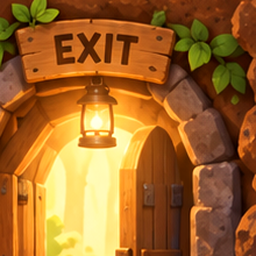
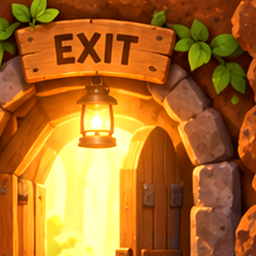
Add files via upload

diff --git a/index.html b/index.html
@@ -4,7 +4,7 @@
 <meta charset="utf-8" />
 <meta name="viewport" content="width=device-width, initial-scale=1, maximum-scale=1, user-scalable=no, viewport-fit=cover" />
 <meta name="theme-color" content="#24130d" />
-<title>Mole Quest — v5.6.3 Recovery Fix</title>
+<title>Mole Quest — v6.0 Clean Warm Mine</title>
 <style>
   :root{
     --cream:#efe4d3;
@@ -26,10 +26,10 @@
     font-family:Inter,system-ui,-apple-system,BlinkMacSystemFont,"Segoe UI",sans-serif;
     color:var(--cream);
     background:
-      radial-gradient(circle at 50% -10%, #473322 0%, rgba(71,51,34,.0) 35%),
-      radial-gradient(circle at 18% 28%, rgba(80,120,180,.12) 0%, rgba(80,120,180,0) 22%),
-      radial-gradient(circle at 82% 18%, rgba(80,120,180,.10) 0%, rgba(80,120,180,0) 20%),
-      linear-gradient(180deg,#120f11,#070608 72%);
+      radial-gradient(circle at 12% 15%, rgba(255,179,81,.24) 0 4%, rgba(255,179,81,.07) 9%, transparent 18%),
+      radial-gradient(circle at 88% 23%, rgba(255,185,88,.20) 0 3%, rgba(255,185,88,.06) 8%, transparent 17%),
+      radial-gradient(circle at 50% -8%, #6a4228 0%, #3b261b 28%, rgba(59,38,27,0) 55%),
+      linear-gradient(180deg,#261a15,#100d0d 68%,#080708);
     display:flex;justify-content:center;
   }
   .app{
@@ -87,43 +87,44 @@
     box-shadow:inset 0 0 0 1px rgba(255,230,200,.08), 0 18px 42px rgba(0,0,0,.45);
   }
   #board{
-    display:grid;grid-template-columns:repeat(10,1fr);gap:1px;aspect-ratio:10/14;
+    display:grid;grid-template-columns:repeat(10,1fr);gap:2px;aspect-ratio:10/14;
     overflow:hidden;border-radius:16px;
-    background:#0f0c0d;touch-action:none;position:relative;
+    background:#3b271b;touch-action:none;position:relative;
+    box-shadow:inset 0 0 0 1px rgba(255,221,171,.08);
   }
-  .cell{position:relative;overflow:hidden;background:#1c110c center/cover no-repeat}
+  .cell{position:relative;overflow:hidden;background:#2b1c14 center/cover no-repeat;border-radius:3px}
   .cell::after{content:"";position:absolute;inset:0;box-shadow:inset 0 0 0 1px rgba(0,0,0,.18);pointer-events:none}
-  .wall{background-image:url('wall-tile.png');filter:brightness(.98) saturate(.92)}
-  .dirt{background-image:url('dirt-tile.png');filter:saturate(1.05) brightness(1.03)}
-  .fragile{background-image:url('dirt-tile.png');filter:saturate(1.08) brightness(1.06);box-shadow:inset 0 0 0 3px rgba(255,213,137,.28),0 0 12px rgba(255,193,99,.14)}
+  .wall{background-image:url('wall-tile.png');filter:brightness(.75) saturate(.78)}
+  .dirt{background-image:url('dirt-tile.png');filter:saturate(.88) brightness(.90)}
+  .fragile{background-image:url('dirt-tile.png');filter:saturate(.85) brightness(.92);box-shadow:inset 0 0 0 2px rgba(236,182,106,.18),0 0 10px rgba(255,187,90,.08)}
   .fragile::before{content:"";position:absolute;z-index:2;inset:6%;background:linear-gradient(62deg,transparent 44%,rgba(61,27,13,.98) 45% 51%,transparent 52%) 46% 18%/70% 66% no-repeat,linear-gradient(118deg,transparent 44%,rgba(73,33,16,.96) 45% 51%,transparent 52%) 58% 60%/78% 68% no-repeat,linear-gradient(18deg,transparent 43%,rgba(38,18,10,.94) 44% 50%,transparent 51%) 34% 74%/64% 48% no-repeat,radial-gradient(circle at 62% 30%,rgba(255,207,123,.25) 0 12%,transparent 13%);opacity:.98}
   .collapsed{background:radial-gradient(circle at 50% 48%,#0c0908 0 35%,#17100d 36% 62%,#2a1d17 63% 100%);box-shadow:inset 0 0 18px rgba(0,0,0,.85)}
   .collapsed::before{content:"";position:absolute;inset:12%;background:radial-gradient(circle at 18% 25%,#5d4636 0 6%,transparent 7%),radial-gradient(circle at 72% 62%,#4b382d 0 7%,transparent 8%),radial-gradient(circle at 43% 78%,#6a4d3c 0 5%,transparent 6%);opacity:.8}
-  .empty{background-image:url('tunnel-tile.png');filter:brightness(1.08) saturate(.80)}
-  .rock{background-image:url('rock-tile.png');filter:saturate(.18) brightness(1.04)}
+  .empty{background-image:url('tunnel-tile.png');filter:brightness(.88)}
+  .rock{background-image:url('rock-tile.png');filter:saturate(.78) brightness(.95)}
   .rock.falling{animation:rockDrop .18s ease-out;filter:brightness(1.04)}
-  .gem{background-image:url('gem-tile.png');animation:gemPulse 1.8s ease-in-out infinite;filter:saturate(.9) brightness(.95)}
+  .gem{background-image:url('gem-tile.png');background-size:100% 100%;background-position:center;animation:gemPulse 1.8s ease-in-out infinite;filter:none}
   .key{background-image:url('tunnel-tile.png');animation:keyPulse 1.3s ease-in-out infinite alternate}
   .key::before{content:"";position:absolute;z-index:2;width:34%;height:34%;left:14%;top:31%;border:4px solid #e7bb5b;border-radius:50%;box-shadow:0 0 10px rgba(231,187,91,.35),inset 0 0 5px rgba(255,243,175,.4)}
   .key::after{content:"";position:absolute;z-index:2;width:50%;height:22%;left:43%;top:42%;background:linear-gradient(180deg,#eecf84,#c88c2e);clip-path:polygon(0 28%,68% 28%,68% 0,81% 0,81% 28%,100% 28%,100% 72%,85% 72%,85% 100%,72% 100%,72% 72%,0 72%);border-radius:999px;box-shadow:0 0 9px rgba(231,187,91,.28)}
-  .switch{background-image:url('tunnel-tile.png');filter:brightness(1.07) saturate(.82)}
+  .switch{background-image:url('tunnel-tile.png')}
   .switch::before{content:"";position:absolute;z-index:2;left:18%;right:18%;bottom:19%;height:28%;border-radius:8px;background:linear-gradient(180deg,#75787a,#434548);border:2px solid #9c9fa1;box-shadow:inset 0 -4px 0 #2e3032,0 2px 4px #0008}
   .switch::after{content:"";position:absolute;z-index:3;width:24%;height:24%;left:38%;top:26%;border-radius:50%;background:radial-gradient(circle at 35% 30%,#f4d49a,#bb7d29 58%,#6a4212 60%);box-shadow:0 0 10px rgba(240,180,61,.35)}
   .switch.active::before{background:linear-gradient(180deg,#526f59,#2f4c37);border-color:#7fac87}
   .switch.active::after{background:radial-gradient(circle at 35% 30%,#d7ffd9,#62c878 58%,#256335 60%);box-shadow:0 0 13px rgba(109,229,132,.45)}
-  .plate{background-image:url('tunnel-tile.png');filter:brightness(1.07) saturate(.82)}
+  .plate{background-image:url('tunnel-tile.png')}
   .plate::before{content:"";position:absolute;z-index:2;left:15%;right:15%;bottom:22%;height:20%;border-radius:999px;background:linear-gradient(180deg,#888b8f,#51545a);border:2px solid #a2a5a8;box-shadow:inset 0 -3px 0 rgba(31,33,36,.85),0 2px 4px rgba(0,0,0,.6)}
   .plate::after{content:"";position:absolute;z-index:2;left:32%;right:32%;top:20%;height:18%;border-radius:999px;background:linear-gradient(180deg,#46484d,#24262a);opacity:.6}
   .plate.active::before{background:linear-gradient(180deg,#98a46e,#55683f);border-color:#c7d894;box-shadow:inset 0 -3px 0 rgba(41,58,30,.88),0 0 10px rgba(184,222,118,.22)}
-  .gate{background-image:url('tunnel-tile.png');filter:brightness(1.05) saturate(.80)}
+  .gate{background-image:url('tunnel-tile.png')}
   .gate::before{content:"";position:absolute;z-index:2;inset:7% 13%;border-left:5px solid #7e8185;border-right:5px solid #7e8185;background:repeating-linear-gradient(90deg,transparent 0 15%,#93979a 15% 26%,transparent 26% 41%);box-shadow:inset 0 0 0 2px #35373a,0 0 8px rgba(0,0,0,.45)}
   .gate.open::before{opacity:.18;transform:translateY(-70%);transition:transform .2s ease,opacity .2s ease}
   .brittle{background-image:url('wall-tile.png');filter:brightness(.78) saturate(.6)}
   .brittle::before{content:"";position:absolute;z-index:2;inset:8%;background:linear-gradient(62deg,transparent 45%,#27140d 46% 51%,transparent 52%) 48% 22%/55% 55% no-repeat,linear-gradient(118deg,transparent 45%,#27140d 46% 51%,transparent 52%) 56% 58%/64% 58% no-repeat,linear-gradient(20deg,transparent 44%,#160b08 45% 50%,transparent 51%) 38% 72%/55% 42% no-repeat;opacity:.92;filter:drop-shadow(0 1px 0 rgba(209,154,115,.25))}
-  .player{background-image:url('mole-tile.png');background-size:126% 126%;background-position:50% 53%;z-index:3;animation:playerStep .16s ease-out;filter:drop-shadow(0 2px 3px rgba(0,0,0,.55))}
-  .enemy{background-image:url('enemy-tile.png');background-size:145% 145%;background-position:50% 96%;filter:saturate(.60) brightness(.72)}
+  .player{background-image:url('mole-tile.png');background-size:118% 118%;background-position:50% 58%;z-index:3;animation:playerStep .16s ease-out;filter:drop-shadow(0 2px 3px rgba(0,0,0,.48))}
+  .enemy{background-image:url('enemy-tile.png');background-size:112% 112%;background-position:50% 72%;filter:saturate(.92) brightness(1.00)}
   .enemy.alert{background-size:100% 100%;background-position:center;filter:none;animation:enemyWiggle .48s ease-in-out infinite alternate;box-shadow:inset 0 0 12px rgba(199,108,108,.33);z-index:2}
-  .exit{background-image:url('exit-tile.png');background-size:122% 122%;filter:saturate(.92) brightness(.86) contrast(1.08);box-shadow:inset 0 0 0 2px rgba(247,223,161,.30),0 0 0 1px rgba(87,58,24,.50),0 0 12px rgba(255,202,92,.10);z-index:2}
+  .exit{background-image:url('exit-tile.png');background-size:110% 110%;background-position:center;filter:saturate(1.07) brightness(1.08) contrast(1.04);box-shadow:inset 0 0 0 2px rgba(255,235,184,.34),0 0 18px rgba(255,190,72,.28);z-index:2}
   .exit::before{content:"";position:absolute;inset:8%;border-radius:12px;box-shadow:inset 0 0 0 1px rgba(255,236,190,.20)}
   .exit.open{filter:saturate(1.12) brightness(1.12) contrast(1.08);box-shadow:inset 0 0 18px rgba(255,223,129,.56),0 0 18px rgba(255,206,88,.42),0 0 0 2px rgba(255,238,194,.28);z-index:2;animation:exitGlow .9s ease-in-out infinite alternate}
   @keyframes gemPulse{0%,100%{filter:brightness(.96);transform:scale(1)}50%{filter:brightness(1.15);transform:scale(1.035)}}
@@ -219,7 +220,7 @@
     <button id="testAddHints">+10 HINT</button>
   </div>
   <div class="economy-note">Prototype economy • 5 can • 20 dakikada 1 can • 3 başlangıç hinti</div>
-  <div class="build">v5.6.3 • Recovery Fix • Level 10 patrol</div>
+  <div class="build">v6.0 • Clean Warm Mine • Levels 1–10</div>
 </div>
 
 <div class="win" id="win">
@@ -261,7 +262,7 @@ const W=10,H=14;
 const MAX_LIVES=5;
 const REFILL_MS=20*60*1000;
 const START_HINTS=3;
-const STORAGE_PREFIX='mq_v563_';
+const STORAGE_PREFIX='mq_v60_';
 function readStore(key,fallback){try{const v=localStorage.getItem(STORAGE_PREFIX+key);return v===null?fallback:Number(v)}catch(e){return fallback}}
 function writeStore(key,value){try{localStorage.setItem(STORAGE_PREFIX+key,String(value))}catch(e){}}
 let lives=Math.max(0,Math.min(MAX_LIVES,readStore('lives',MAX_LIVES)));
@@ -498,30 +499,30 @@ const levels=[
   }
   ,{
     id:'1–10',
-    intro:'Level 10: Solda kristalleri toparla, şalteri aç ve tek kullanımlık çatlak köprüden geç. Sağ bölümde ise daha kapalı koridorlarda devriye böceği ve kaya düşüşlerini birlikte yönet.',
-    hint:'Level 10: Soldaki kristalleri geçmeden köprüye girme. Şalter kapıyı açar; çatlak köprü ise dönüşü kapatır.',
-    hints:['Önce soldaki kristalleri ve şalteri tamamla. Çatlak köprüden geçince geri dönüş neredeyse kapanır.','Sağ taraf artık tamamen açık başlamıyor; devriye böceğinin koridorunu adım adım okuyarak ilerle.','Kayaların altını açmadan önce kaçış yönünü düşün. Son kristaller sağ alanda ama hepsi köşede değil.'],
+    intro:'Level 10: Sol bölgedeki kristalleri ve şalteri tamamla. Sonra çatlak geçitten sağ devriye alanına geç ve çıkışa ulaş.',
+    hint:'Level 10: Önce sol tarafı temizle. Şalter kapıyı açar; sağ tarafta böcek açık bir halka üzerinde devriye gezer.',
+    hints:['Soldaki kristalleri ve şalteri tamamlamadan geçide girme.','Mor böcek her başarılı hamlede açık devriye halkasında bir kare ilerler.','Sağ bölümdeki kayaların altını açmadan önce kaçış yönünü hazırla.'],
     enemyMode:'loop',
     enemyEvery:1,
-    enemyPath:[[5,7],[6,7],[7,7],[8,7],[8,8],[8,9],[7,9],[6,9],[5,9],[5,8]],
+    enemyPath:[[6,7],[7,7],[8,7],[8,8],[8,9],[7,9],[6,9],[6,8]],
     requiresKey:false,
     requiresSwitch:true,
     requiresPlate:false,
     collapsingGround:true,
     map:[
       "##########",
-      "#PddG#ddd#",
-      "#dRdd#dGd#",
-      "#ddSd#ddd#",
-      "#Gddd#Gdd#",
-      "##cccDddd#",
-      "#dddd#dRd#",
-      "#dRdd#X..#",
-      "#dddd#...#",
-      "#dddd#...#",
-      "#dddd#dGd#",
-      "#dddd#ddE#",
-      "#dddd#Gdd#",
+      "#dGdR#d.G#",
+      "#dd.d#dd.#",
+      "#PddS#Gdd#",
+      "#dRdd#dd.#",
+      "#dGccD...#",
+      "#dd..#R..#",
+      "#Gd..#X..#",
+      "#ddR.#...#",
+      "#d..c#...#",
+      "#dG.c#dR.#",
+      "#dddc#..E#",
+      "#..d.#...#",
       "##########"
     ]
   }
@@ -685,7 +686,8 @@ function enemyTurn(){
 
   enemyTick++;
   enemyAlert=(md<=2);
-  if(enemyTick%2!==0){
+  const enemyEvery=Math.max(1,Number(level.enemyEvery||2));
+  if(enemyTick%enemyEvery!==0){
     if(enemyAlert) statusEl.textContent='Mor böcek yakında. Bir sonraki başarılı hamlede hareket edecek.';
     return false;
   }
@@ -694,9 +696,11 @@ function enemyTurn(){
     const path=level.enemyPath;
     let idx=path.findIndex(([x,y])=>x===e.x&&y===e.y);
     if(idx<0){
-      idx=path.findIndex(([x,y])=>Math.abs(x-e.x)+Math.abs(y-e.y)===1);
-      if(idx<0) idx=path.length-1;
-      else idx=(idx-1+path.length)%path.length;
+      // Harita ile rota bir an uyumsuzlaşırsa en yakın rota karesinden devam et.
+      idx=path.reduce((best,p,i)=>{
+        const d=Math.abs(p[0]-e.x)+Math.abs(p[1]-e.y);
+        return d<best.d?{i,d}:best;
+      },{i:0,d:Infinity}).i;
     }
     const [nx,ny]=path[(idx+1)%path.length];
     if(nx===px&&ny===py){
@@ -704,7 +708,8 @@ function enemyTurn(){
       hurt('Devriye böceği sana çarptı!');
       return true;
     }
-    if(map[ny] && (map[ny][nx]==='.' || map[ny][nx]==='d')){
+    const nextCell=map[ny] && map[ny][nx];
+    if(nextCell==='.' || nextCell==='d'){
       map[e.y][e.x]='.';map[ny][nx]='X';
       const newMd=Math.abs(px-nx)+Math.abs(py-ny);enemyAlert=(newMd<=2);
       statusEl.textContent=enemyAlert?'Devriye böceği yaklaşıyor.':'Böcek devriye turuna devam ediyor.';
@@ -721,7 +726,7 @@ function enemyTurn(){
       hurt('Hareket eden mor böcek sana çarptı!');
       return true;
     }
-    if(map[ny] && (map[ny][nx]==='.' || map[ny][nx]==='d')){
+    if(map[ny] && map[ny][nx]==='.'){
       map[e.y][e.x]='.';map[ny][nx]='X';enemyDir=dir;
       const newMd=Math.abs(px-nx)+Math.abs(py-ny);enemyAlert=(newMd<=2);
       statusEl.textContent=enemyAlert?'Mor böcek yaklaşıyor.':'Mor böcek devriye geziyor.';
@@ -748,7 +753,7 @@ function completeLevel(){
   else if(currentLevel===6) winText.textContent='Devriye hattını zamanlayıp riskli kristalleri topladın ve yedinci bölümü tamamladın.';
   else if(currentLevel===7) winText.textContent='Şalteri açtın, anahtarı buldun ve devriye bölgesini geçerek sekizinci bölümü tamamladın.';
   else if(currentLevel===8) winText.textContent='Çöken topraklarda doğru rotayı seçip dokuzuncu bölümü tamamladın.';
-  else winText.textContent='Çatlak köprüyü geçip kaya koridorlarını ve devriyeyi aşarak onuncu bölümü tamamladın.';
+  else winText.textContent='Şalteri açıp devriye halkasını geçerek onuncu bölümü tamamladın.';
   nextBtn.textContent=isLast?'Baştan Oyna':'Sonraki Bölüm →';
   if(currentLevel===1) nextBtn.textContent='Sonraki Bölüm →';
   winEl.style.display='flex';
@@ -1008,7 +1013,7 @@ document.querySelectorAll('[data-test-level]').forEach(btn=>{
 });
 
 syncRefill();
-// İstersen adresin sonuna ?level=10 yazarak direkt Level 10 açılabilir.
+// İstersen adresin sonuna ?level=9 yazarak direkt Level 7 açılabilir.
 const params=new URLSearchParams(location.search);
 const requestedLevel=Number(params.get('level'));
 if(Number.isInteger(requestedLevel) && requestedLevel>=1 && requestedLevel<=levels.length){

diff --git a/README.md b/README.md
@@ -1,6 +1,10 @@
-Mole Quest v5.6.3 Recovery Fix
+# Mole Quest v6.0 — Clean Warm Mine
 
-- v5.7.1'in yeni yapay tile görselleri kaldırıldı; v5.6.2 görsellerine geri dönüldü.
-- Level 10 böceği artık devriye rotasının tam üstünden başlar.
-- Level 10 böceği her başarılı oyuncu hamlesinde 1 kare ilerler.
-- Devriye kodu, böcek rota dışına çıkarsa en yakın rota karesine toparlanacak şekilde güçlendirildi.
+Temiz toparlama sürümü.
+- v5.5 stabil mekanik tabanı kullanıldı.
+- 1–10 tek kod hattında.
+- Sıcak maden arka planı ve kontrollü renk düzeni.
+- Mockup'tan asset kesilmedi; mevcut stabil assetler kontrollü renklendirildi.
+- Level 10 yeniden kuruldu.
+- Level 10 böceği açık 8-kare devriye halkasında her başarılı hamlede 1 kare ilerler.
+- Elmas/rock/exit CSS hizaları temizlendi.
